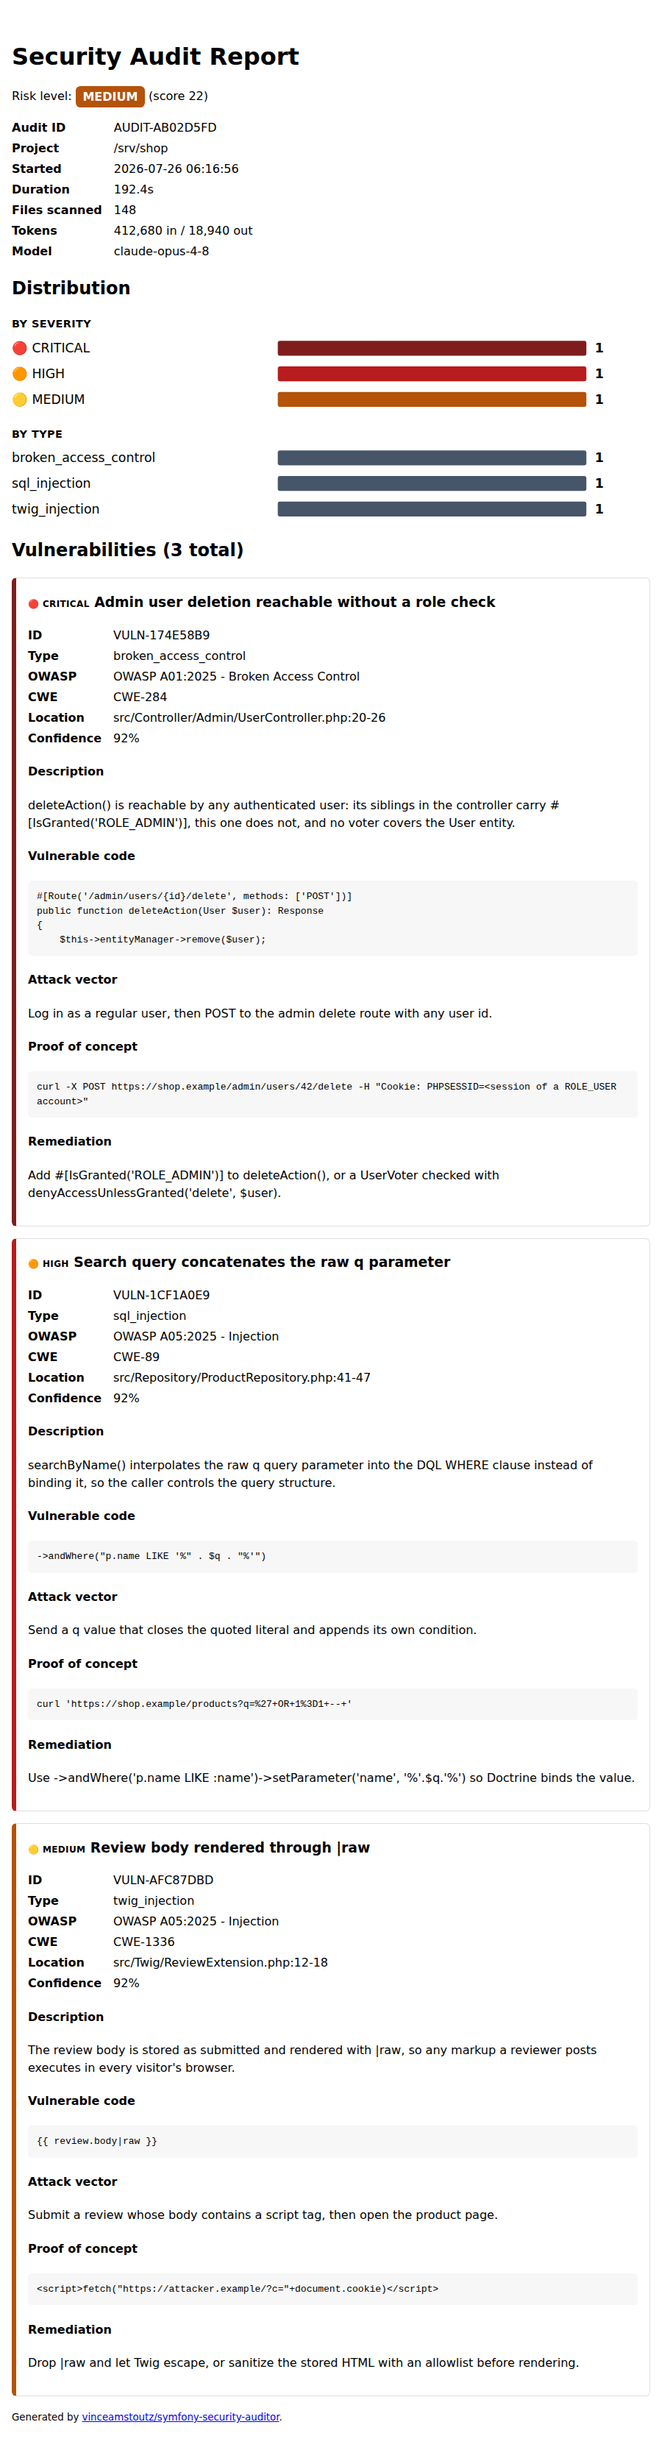
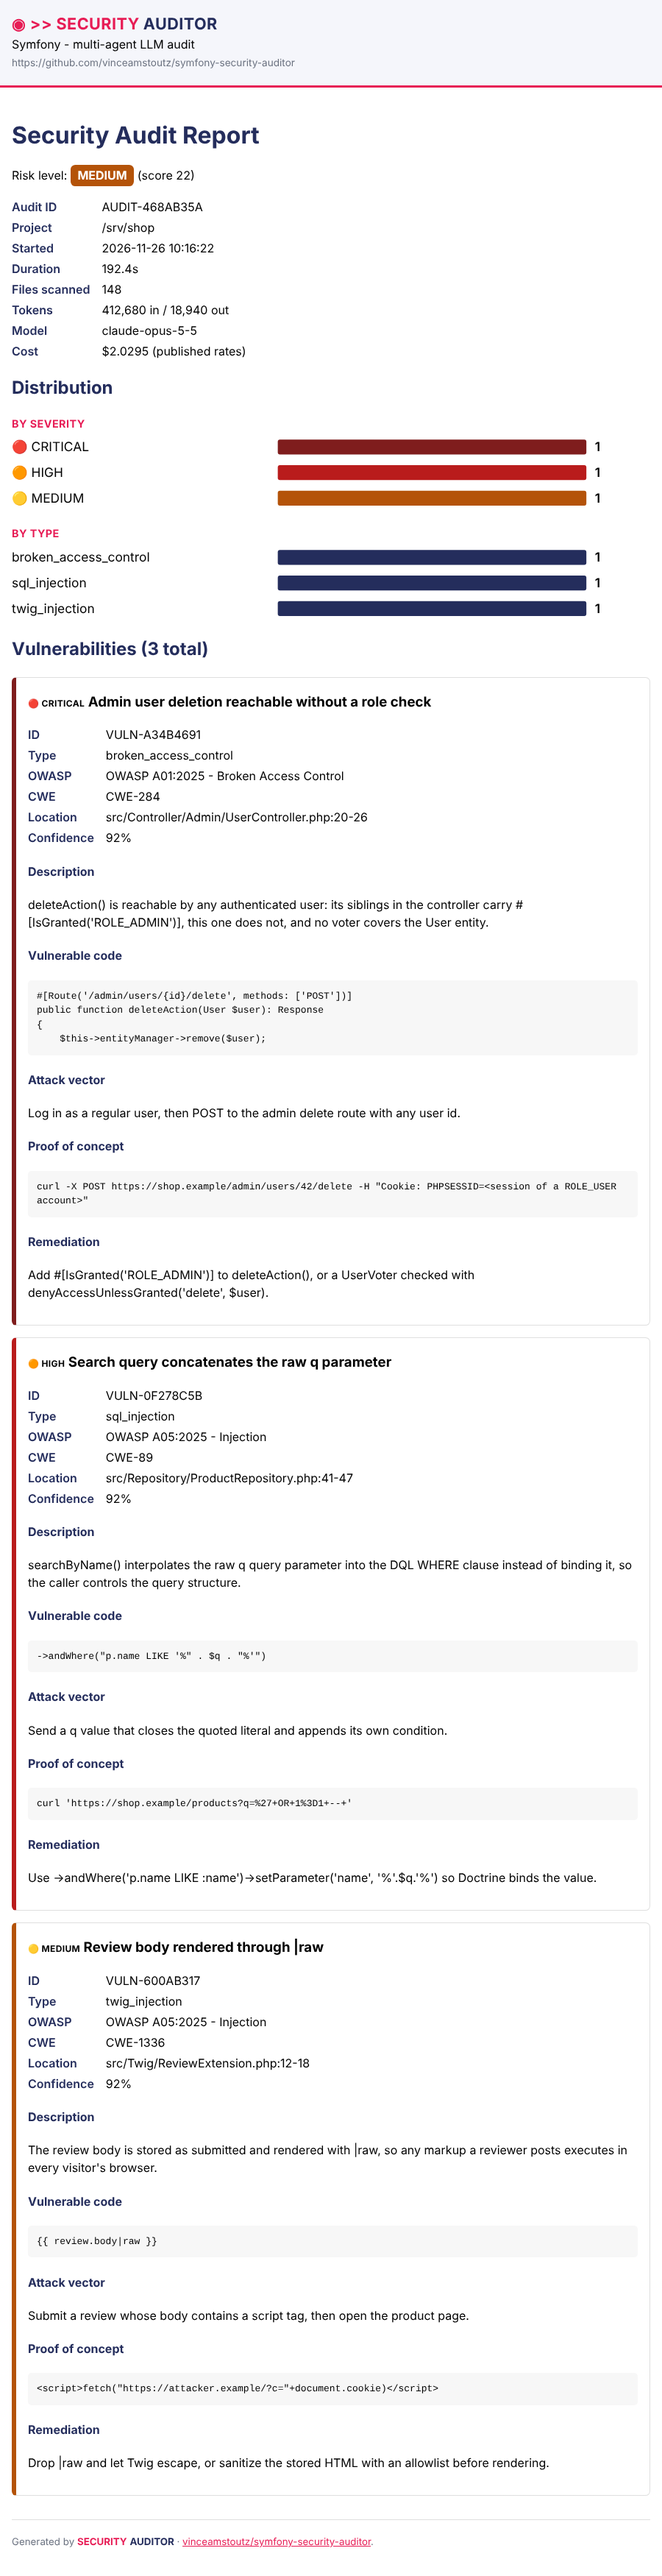
docs: show the branded HTML report in its screenshot
The screenshot of the HTML report predates the pink and navy header,
brand colours and footer the report gained in #720. It is rendered again
from the same three findings through the current HtmlReportRenderer,
with the current default model, claude-opus-5-5, and the cost its
published rates give for those tokens.

diff --git a/docs/configuration.md b/docs/configuration.md
@@ -771,7 +771,7 @@ _Since 1.23._ With [`audit.fix_synthesis`](#audit-orchestrator-knobs) enabled, a
 
 A single self-contained file (no external stylesheet, font, image or script) carrying the risk badge and run metadata, a Distribution section of two inline-SVG bar charts (by severity, by vulnerability type) and one card per finding with its location, description, vulnerable code, attack vector, proof of concept and remediation. Colors come from the report's own stylesheet, so it follows the reader's light/dark preference.
 
-![The HTML report: risk badge, run metadata, distribution charts and one card per finding](../assets/html-report.png?raw=true)
+![The HTML report: branded header, risk badge, run metadata, distribution charts and one card per finding](../assets/html-report.png?raw=true)
 
 ### Normalized score and grade
 
